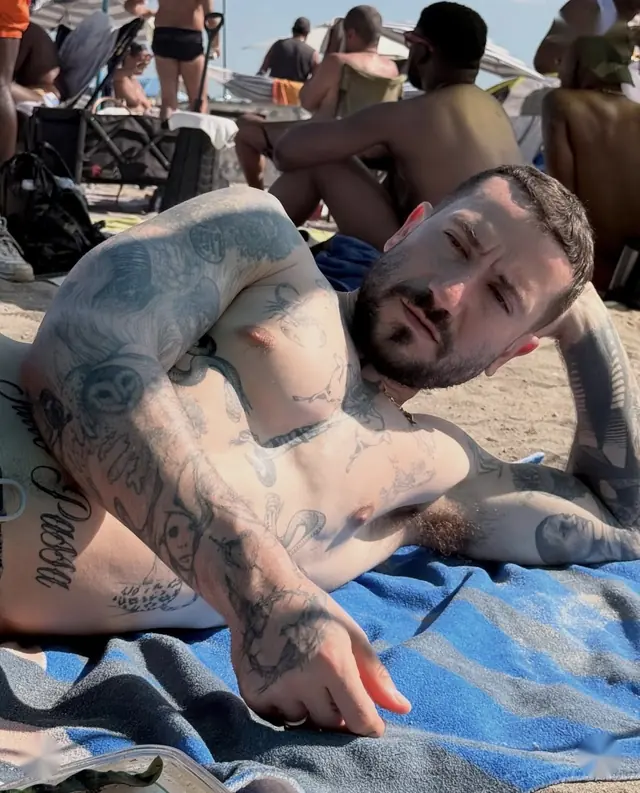
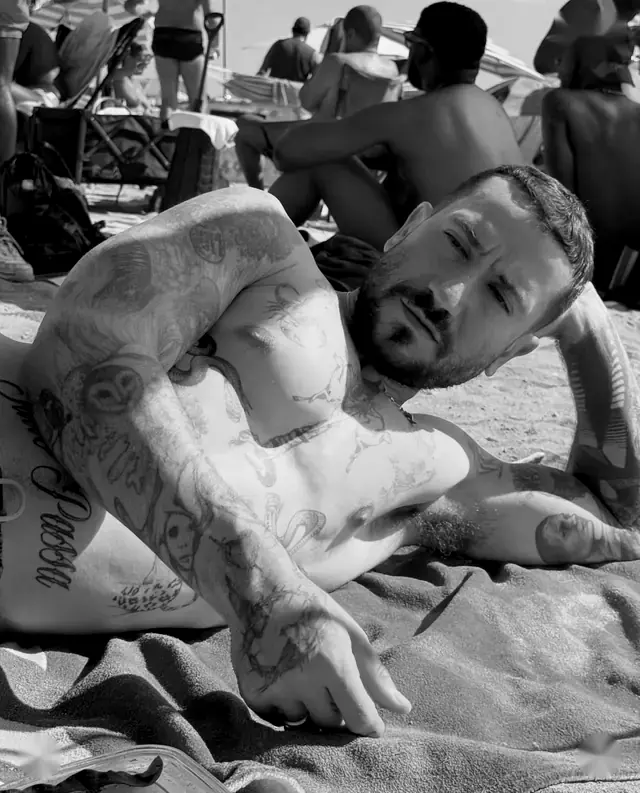
Beach photo to black and white
Claude-Session: https://claude.ai/code/session_011u3dvpUQL47CqDW3kw8JjJ

diff --git a/index.html b/index.html
@@ -257,7 +257,7 @@ html.theme-fade *,html.theme-fade *::before,html.theme-fade *::after{transition:
       <figure><img src="moodboard/p03.webp" width="640" height="639" alt="Black-and-white portrait of a smiling person with a gold grill, hoop earrings and a chest tattoo" loading="lazy" decoding="async"></figure>
       <figure><img src="moodboard/q01.webp" width="640" height="1399" alt="Person in a black open-back satin gown and sunglasses in front of white curtains, holding a beaded bag" loading="lazy" decoding="async"></figure>
       <figure><img src="moodboard/q02.webp" width="640" height="788" alt="Person in a glossy black latex top and zip-slit skirt with combat boots, taking a mirror selfie" loading="lazy" decoding="async"></figure>
-      <figure><img src="moodboard/q05.webp" width="640" height="793" alt="Tattooed bearded man lying on a blue beach towel" loading="lazy" decoding="async"></figure>
+      <figure><img src="moodboard/q05.webp" width="640" height="793" alt="Black-and-white photo of a tattooed bearded man lying on a beach towel" loading="lazy" decoding="async"></figure>
       <figure><img src="moodboard/t01.webp" width="640" height="764" alt="Black-and-white portrait of a shirtless bearded man in a black cap and plaid shorts, hand at his chin" loading="lazy" decoding="async"></figure>
       <figure><img src="moodboard/v01.webp" width="640" height="638" alt="Painting of a winged figure seen from behind, wrapped around by snakes, on rumpled white cloth" loading="lazy" decoding="async"></figure>
       <figure><img src="moodboard/w01.webp" width="640" height="853" alt="Black-and-white gym mirror selfie of a muscular man in a tank top and cap, phone in hand" loading="lazy" decoding="async"></figure>
